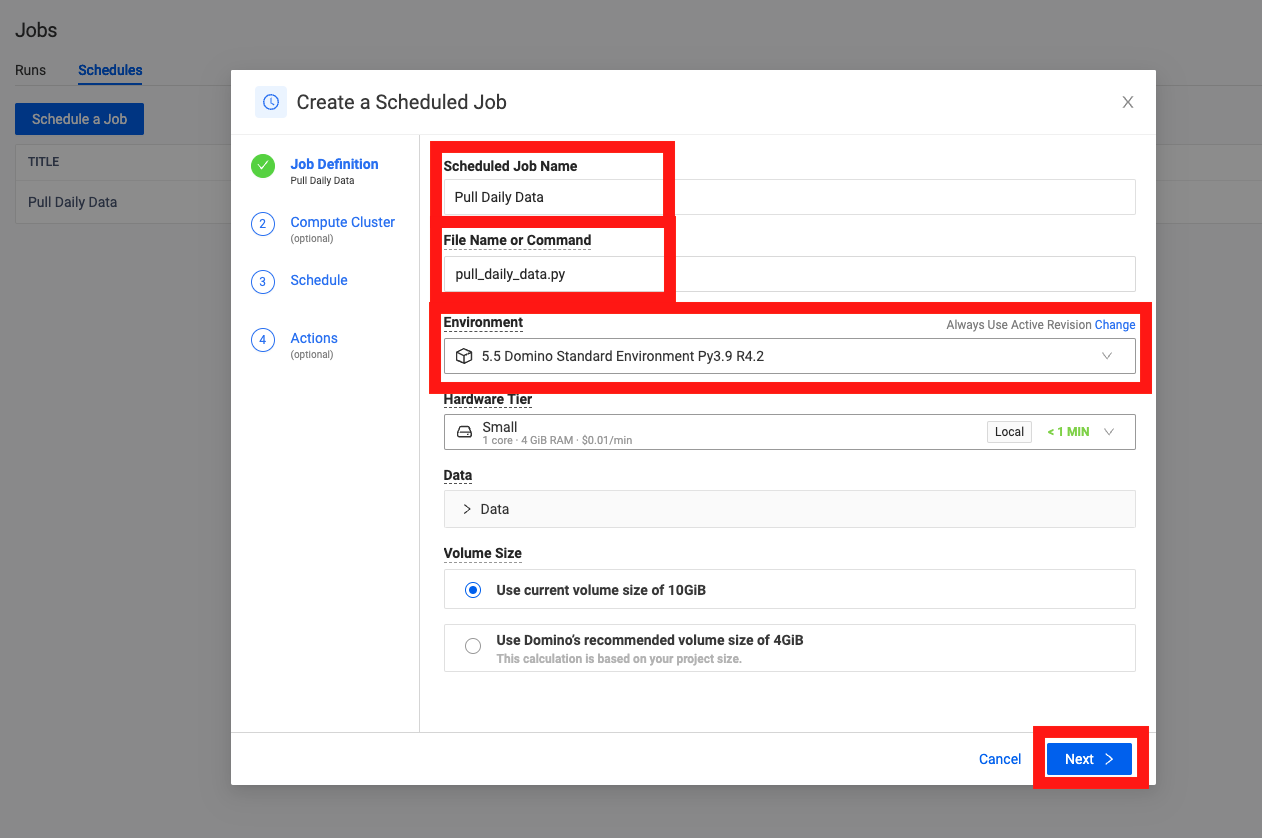
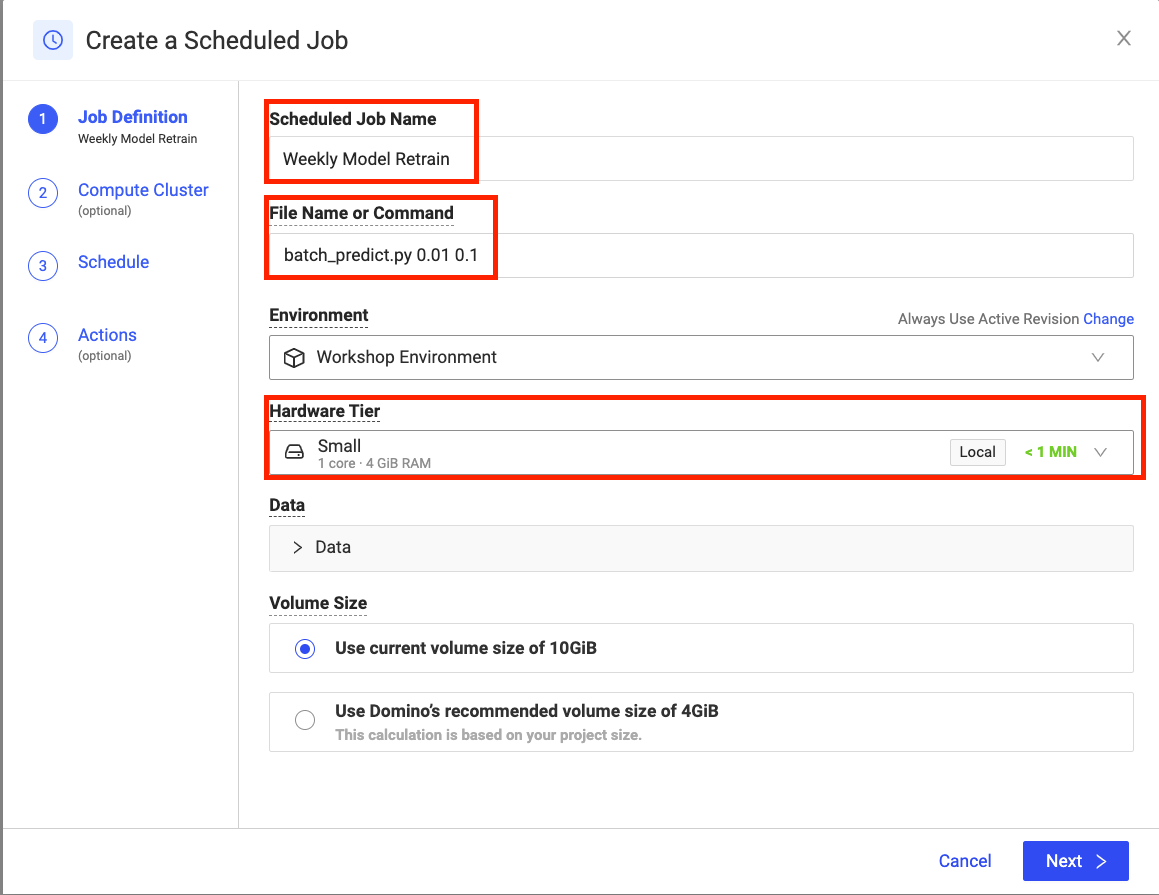
updated readme with Jobs
Pushed from Domino: https://hybridworkshop.domino-eval.com/workspace/domino_admin/workshoptest?executionId=64567511b3229e4ac78372d2

diff --git a/.ipynb_checkpoints/README-checkpoint.md b/.ipynb_checkpoints/README-checkpoint.md
@@ -15,7 +15,7 @@ Luckily Domino makes working with remote data trivial through [Domino Nexus](htt
 
 In this scenario we have our energy production data stored as follows:
 * NPSHYD (Non-Pump Storage Hydro) data is in AWS in the west coast of the USA - our main data science hub.
-* CCGT (Combined Cycle Gas Turbine) data is in AWS in Dublin, Ireland
+* CCGT (Combined Cycle Gas Turbine) data is in AWS in Ireland
 * WIND (Wind turbine) data is in Azure in Canada
 
 TODO architecture diagram.
@@ -315,7 +315,7 @@ At this point we have finished training our model.
 
 The Snowflake call is sending metadata back to a central app. You can check where you and the other people in the workshop have been running your workloads on the main screen at the front of the class.
 
-Next we will may want to tune the parameters of our model. This can be done using Domino's batch processing mechanism - Jobs. We are finished with our Workspace now, so you can click **Stop** at the top of the workspace to shut down the container and release the resources.
+Next we will may want to tune the parameters of our model. This can be done using Domino's batch processing mechanism - Jobs.
 
 
 ## 6.0 Batch Workloads
@@ -325,56 +325,111 @@ What if we wanted to try some different parameter combinations to our model so w
 We will also want to schedule this retraining to run on a regular basis as our remote data will be updated regularly by other processes. Domino has a **Scheduled Job** capability for that.  
 
 
-### 6.1 Domino Jobs TODO
+### 6.1 Our Batch File
 
-To get a sense how Domino Jobs work, first take a look at the Python script `pull_daily_data.py` in your project files. This is a script that pulls data from BMRS’s website, using an optional user-specified start and end date. It cleans up the raw data, then appends it to the generation history in the Project’s Domino Dataset.
+To get a sense how Domino Jobs work, first take a look at the Python script `batch_predict.py` in your project files within your workspace. This is a script that follows the same flow that we have gone through in Section 5 of this workshop, but adds the ability to parameterise the model and is refactored to run as a simple Python script. This allows us to easy run multiple simultaneous executions to train different parameter combinations.
 
-By default, it pulls the last 24 hours of data. To get a longer history saved to start with, we'll stat by running this script manually.
-
-Navigate out of your workspace, back to the Project, and click on Jobs on your Project's left hand menu. Click on Run, and in the File Name or Command enter the following command. We’ll tell it to pull data from January 1st up to today:
-
+You'll notice on lines 7 and 8 we are reading in our model parameters as command line options:
 ```
-pull_daily_data.py '--start=2023-01-01 00:00:00'
+changepoint_prior = float(sys.argv[1])
+seasonality_prior = float(sys.argv[2])
 ```
 
-Ensure your Run Environment matches your Workspace environment, and click on **Start**.
+* changepoint_prior determines the scale of the change at the time series trend change point. The recommended tuning range is 0.001 to 0.5.
+* seasonality_prior controls the magnitude of the seasonality fluctuation. The recommended tuning range is 0.01 to 10.
 
+We can set these when we kick off the job.
+
+Another change in this file is at the end, lines 74-76.
+```
+import json
+with open('/mnt/dominostats.json', 'w') as f:
+    f.write(json.dumps({"MAE": round(df_p['mae'][0], 3), "RMSE": round(df_p['rmse'][0], 3)}))
+```
+Domino Jobs has a dashboard to log the main metrics in our batch jobs that we can populate by simply writing out to a JSON file. For this execution we have chosen to track MAE and RMSE.
+
+Note: Domino also has MLFlow embedded into the platform for more detailed execution tracking, but it is out of scope for this workshop. If you want to find out more come and talk to us after the session.
+
+
+### 6.2 Running the Job
+
+To actually start the Job we need to move back to the Jobs section of the main Domino UI:
 <p align="center">
-<img src = readme_images/manual_job.png width="800">
+<img src = readme_images/jobs_blank.png width="800">
 </p>
 
-In the background, Domino is executing our script as a job - it will ping BMRS’s site, download data, clean it up and save it in a Domino Dataset in our Project. This may take a minute, but the status should change from blue to green when the job is complete.
+From here click on the **Run** button. Here we will have a similar set of options as when we started our workspace, but this time we will be specifying the file we want to run and the parameters.
 
-Click into the `pull_daily_data` job run.
+Enter the following into the **File Name or Command** box:
+```
+batch_predict.py 0.01 0.1
+```
+Note you can change these values if you want to play with the parameter settings:
+* changepoint_prior recommended tuning range is 0.001 to 0.5.
+* seasonality_prior recommended tuning range is 0.01 to 10.
 
-In the **Details** tab on the right, note that the compute environment and hardware tier are tracked to document not only who ran the job, but when it was run and what versions of the code, software, and hardware were executed. 
+Next select the Hardware Tier in the region you would like to run in. You can choose the same region as you ran your workspace, or switch over to a different region and build your model on a different data set. It's up to you.
 
-Click into the **Results** tab. Here you can see any data, saved figures, and outputs from the script that was run.
+Remember:
+* NPSHYD (Non-Pump Storage Hydro) data is in AWS in the west coast of the USA (named Local)
+* CCGT (Combined Cycle Gas Turbine) data is in AWS in Ireland
+* WIND (Wind turbine) data is in Azure in Canada
+
+Click on **Start** to start the job.
+
+<p align="center">
+<img src = readme_images/jobs_batch.png width="800">
+</p>
+
+In the background, Domino is executing our script as a job - it will start a container in the region/cloud you selected, run through the code to read the data in that region, clean it up and build a new model. This may take a few minutes, but the status should change from blue to green when the job is complete.
+
+While your Job is running click into the `batch_predict` job run.
+
+In the **Details** tab on the right, note that the compute environment and hardware tier are tracked to document not only who ran the job, but when it was run and what versions of the code, software, and hardware were executed.
+
+Domino projects are designed to be collaborative, so in a real project you would be able to see all the experiments and batch workloads started by your colleagues so you don't have to rerun anything to find out what they have tested so far.
+
+The Jobs run here are also fully reproducible as we are tracking the versions of the code, container, libraries and in some cases the data as well. This is really important for regulated industries or teams where model validation or audit takes place. Domino makes it trivial to view or replay past work!
+
+<p align="center">
+<img src = readme_images/jobs_details.png width="800">
+</p>
+
+We can also check the status of our running job by looking at the **Logs** tab - this will allow us to view the User Output logs from the running container. We can scroll down and see some of the output of the script.
+
+Once your job has finished click into the **Results** tab. Here you can see any data, saved figures, and outputs from the script that was run. In our case we will be able to see the prediction graphic for our forecasting model and the details we wrote out in print statements in the stdout.txt file.
 
 ### 6.2 Scheduled Jobs 
 
-If we want to run this every day, we can use Domino to run the Job on a schedule. In the Jobs section of your Project, navigate to the **Schedules** tab, and click **Schedule a Job**.
+If we wanted to retrain or rerun this every week, we can use Domino to run the Job on a schedule. In the Publish section of your Project, click on **Schedules Jobs** tab, and click **Schedule a Job**.
 
-Call your job `Pull Daily Data`.
+<p align="center">
+<img src = readme_images/schedule.png width="800">
+</p>
 
-Just like with the manual Job, enter the script you want to run. It defaults to pulling the last 24 hours of data, so no need to pass it a start time: 
+Call your job `Weekly Model Retrain`.
+
+Just like with the manual Job, enter the script you want to run:
 
 ```
-pull_daily_data.py
+batch_predict.py 0.01 0.1
 ```
-Ensure your Run Environment matches your Workspace environment, and click **Next** until you're in the Schedule tab.
+
+Again select the Hardware Tier in the region you would like to run in.
+
+Click **Next** until you're in the **Schedule tab**.
 
 <p align="center">
 <img src = readme_images/schedule_1.png width="800">
 </p>
 
-Set your Job to run every day at midnight:
+Set your Job to run every week on Sunday at midnight:
 
 <p align="center">
 <img src = readme_images/schedule_2.png width="800">
 </p>
 
-Click to the last window and Click **Create**. Now the power generation data will be updated every day at midnight.
+Click **Next** to the last window and Click **Create**. Now our model will be updated every Sunday at midnight.
 
 ### 6.TODO Summary
 

diff --git a/README.md b/README.md
@@ -15,7 +15,7 @@ Luckily Domino makes working with remote data trivial through [Domino Nexus](htt
 
 In this scenario we have our energy production data stored as follows:
 * NPSHYD (Non-Pump Storage Hydro) data is in AWS in the west coast of the USA - our main data science hub.
-* CCGT (Combined Cycle Gas Turbine) data is in AWS in Dublin, Ireland
+* CCGT (Combined Cycle Gas Turbine) data is in AWS in Ireland
 * WIND (Wind turbine) data is in Azure in Canada
 
 TODO architecture diagram.
@@ -315,7 +315,7 @@ At this point we have finished training our model.
 
 The Snowflake call is sending metadata back to a central app. You can check where you and the other people in the workshop have been running your workloads on the main screen at the front of the class.
 
-Next we will may want to tune the parameters of our model. This can be done using Domino's batch processing mechanism - Jobs. We are finished with our Workspace now, so you can click **Stop** at the top of the workspace to shut down the container and release the resources.
+Next we will may want to tune the parameters of our model. This can be done using Domino's batch processing mechanism - Jobs.
 
 
 ## 6.0 Batch Workloads
@@ -325,56 +325,111 @@ What if we wanted to try some different parameter combinations to our model so w
 We will also want to schedule this retraining to run on a regular basis as our remote data will be updated regularly by other processes. Domino has a **Scheduled Job** capability for that.  
 
 
-### 6.1 Domino Jobs TODO
+### 6.1 Our Batch File
 
-To get a sense how Domino Jobs work, first take a look at the Python script `pull_daily_data.py` in your project files. This is a script that pulls data from BMRS’s website, using an optional user-specified start and end date. It cleans up the raw data, then appends it to the generation history in the Project’s Domino Dataset.
+To get a sense how Domino Jobs work, first take a look at the Python script `batch_predict.py` in your project files within your workspace. This is a script that follows the same flow that we have gone through in Section 5 of this workshop, but adds the ability to parameterise the model and is refactored to run as a simple Python script. This allows us to easy run multiple simultaneous executions to train different parameter combinations.
 
-By default, it pulls the last 24 hours of data. To get a longer history saved to start with, we'll stat by running this script manually.
-
-Navigate out of your workspace, back to the Project, and click on Jobs on your Project's left hand menu. Click on Run, and in the File Name or Command enter the following command. We’ll tell it to pull data from January 1st up to today:
-
+You'll notice on lines 7 and 8 we are reading in our model parameters as command line options:
 ```
-pull_daily_data.py '--start=2023-01-01 00:00:00'
+changepoint_prior = float(sys.argv[1])
+seasonality_prior = float(sys.argv[2])
 ```
 
-Ensure your Run Environment matches your Workspace environment, and click on **Start**.
+* changepoint_prior determines the scale of the change at the time series trend change point. The recommended tuning range is 0.001 to 0.5.
+* seasonality_prior controls the magnitude of the seasonality fluctuation. The recommended tuning range is 0.01 to 10.
 
+We can set these when we kick off the job.
+
+Another change in this file is at the end, lines 74-76.
+```
+import json
+with open('/mnt/dominostats.json', 'w') as f:
+    f.write(json.dumps({"MAE": round(df_p['mae'][0], 3), "RMSE": round(df_p['rmse'][0], 3)}))
+```
+Domino Jobs has a dashboard to log the main metrics in our batch jobs that we can populate by simply writing out to a JSON file. For this execution we have chosen to track MAE and RMSE.
+
+Note: Domino also has MLFlow embedded into the platform for more detailed execution tracking, but it is out of scope for this workshop. If you want to find out more come and talk to us after the session.
+
+
+### 6.2 Running the Job
+
+To actually start the Job we need to move back to the Jobs section of the main Domino UI:
 <p align="center">
-<img src = readme_images/manual_job.png width="800">
+<img src = readme_images/jobs_blank.png width="800">
 </p>
 
-In the background, Domino is executing our script as a job - it will ping BMRS’s site, download data, clean it up and save it in a Domino Dataset in our Project. This may take a minute, but the status should change from blue to green when the job is complete.
+From here click on the **Run** button. Here we will have a similar set of options as when we started our workspace, but this time we will be specifying the file we want to run and the parameters.
 
-Click into the `pull_daily_data` job run.
+Enter the following into the **File Name or Command** box:
+```
+batch_predict.py 0.01 0.1
+```
+Note you can change these values if you want to play with the parameter settings:
+* changepoint_prior recommended tuning range is 0.001 to 0.5.
+* seasonality_prior recommended tuning range is 0.01 to 10.
 
-In the **Details** tab on the right, note that the compute environment and hardware tier are tracked to document not only who ran the job, but when it was run and what versions of the code, software, and hardware were executed. 
+Next select the Hardware Tier in the region you would like to run in. You can choose the same region as you ran your workspace, or switch over to a different region and build your model on a different data set. It's up to you.
 
-Click into the **Results** tab. Here you can see any data, saved figures, and outputs from the script that was run.
+Remember:
+* NPSHYD (Non-Pump Storage Hydro) data is in AWS in the west coast of the USA (named Local)
+* CCGT (Combined Cycle Gas Turbine) data is in AWS in Ireland
+* WIND (Wind turbine) data is in Azure in Canada
+
+Click on **Start** to start the job.
+
+<p align="center">
+<img src = readme_images/jobs_batch.png width="800">
+</p>
+
+In the background, Domino is executing our script as a job - it will start a container in the region/cloud you selected, run through the code to read the data in that region, clean it up and build a new model. This may take a few minutes, but the status should change from blue to green when the job is complete.
+
+While your Job is running click into the `batch_predict` job run.
+
+In the **Details** tab on the right, note that the compute environment and hardware tier are tracked to document not only who ran the job, but when it was run and what versions of the code, software, and hardware were executed.
+
+Domino projects are designed to be collaborative, so in a real project you would be able to see all the experiments and batch workloads started by your colleagues so you don't have to rerun anything to find out what they have tested so far.
+
+The Jobs run here are also fully reproducible as we are tracking the versions of the code, container, libraries and in some cases the data as well. This is really important for regulated industries or teams where model validation or audit takes place. Domino makes it trivial to view or replay past work!
+
+<p align="center">
+<img src = readme_images/jobs_details.png width="800">
+</p>
+
+We can also check the status of our running job by looking at the **Logs** tab - this will allow us to view the User Output logs from the running container. We can scroll down and see some of the output of the script.
+
+Once your job has finished click into the **Results** tab. Here you can see any data, saved figures, and outputs from the script that was run. In our case we will be able to see the prediction graphic for our forecasting model and the details we wrote out in print statements in the stdout.txt file.
 
 ### 6.2 Scheduled Jobs 
 
-If we want to run this every day, we can use Domino to run the Job on a schedule. In the Jobs section of your Project, navigate to the **Schedules** tab, and click **Schedule a Job**.
+If we wanted to retrain or rerun this every week, we can use Domino to run the Job on a schedule. In the Publish section of your Project, click on **Schedules Jobs** tab, and click **Schedule a Job**.
 
-Call your job `Pull Daily Data`.
+<p align="center">
+<img src = readme_images/schedule.png width="800">
+</p>
 
-Just like with the manual Job, enter the script you want to run. It defaults to pulling the last 24 hours of data, so no need to pass it a start time: 
+Call your job `Weekly Model Retrain`.
+
+Just like with the manual Job, enter the script you want to run:
 
 ```
-pull_daily_data.py
+batch_predict.py 0.01 0.1
 ```
-Ensure your Run Environment matches your Workspace environment, and click **Next** until you're in the Schedule tab.
+
+Again select the Hardware Tier in the region you would like to run in.
+
+Click **Next** until you're in the **Schedule tab**.
 
 <p align="center">
 <img src = readme_images/schedule_1.png width="800">
 </p>
 
-Set your Job to run every day at midnight:
+Set your Job to run every week on Sunday at midnight:
 
 <p align="center">
 <img src = readme_images/schedule_2.png width="800">
 </p>
 
-Click to the last window and Click **Create**. Now the power generation data will be updated every day at midnight.
+Click **Next** to the last window and Click **Create**. Now our model will be updated every Sunday at midnight.
 
 ### 6.TODO Summary
 
